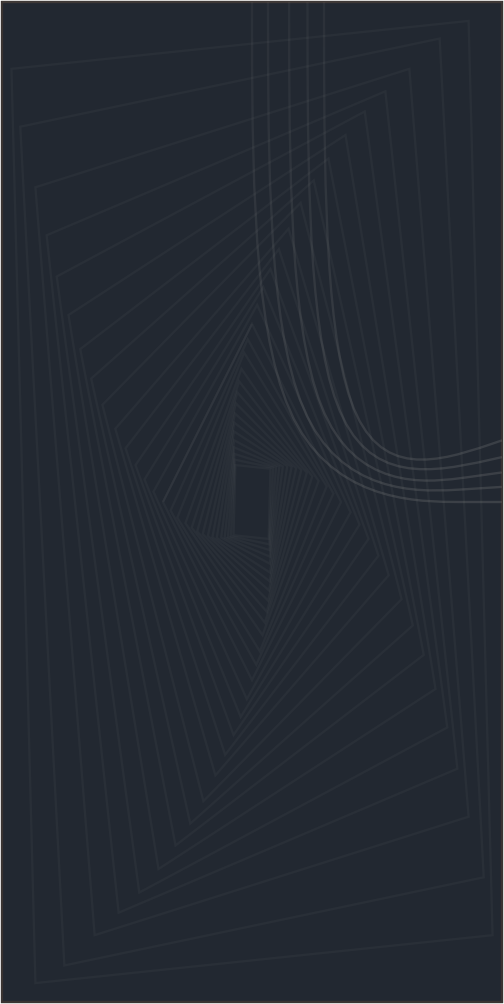
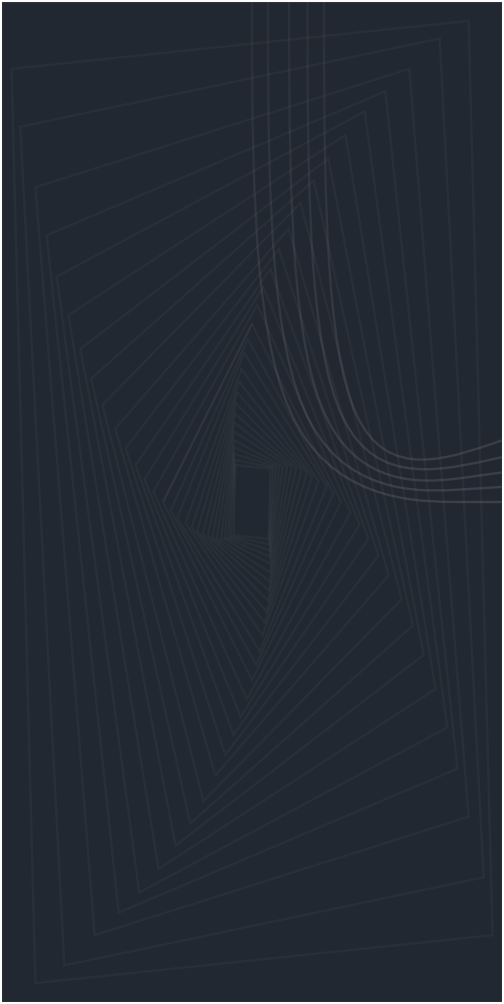
edit background picture to remove each border on all background side with bg size setting and center bg

Changed region(s): [[0.0, 0.0, 1.0, 1.0]]

diff --git a/daftar-kontak.html b/daftar-kontak.html
@@ -5,7 +5,7 @@
     <meta name="viewport" content="width=device-width, initial-scale=1.0">
     <title>Daftar Kontak</title>
     <meta content="Website ini menjual berbagai macam mobil dengan harga yang bersaing dan kualitas yang sangat baik" name="description">
-    <meta content="sgsmotor, jual beli mobil, mobil bekas, mobil baru, dealer mobil, mobil second" name="keywords">
+    <meta content="NurrayMotor, jual beli mobil, mobil bekas, mobil baru, dealer mobil, mobil second" name="keywords">
     <link rel="icon" href="./asset/images/SGSicon32x32.png" type="image/x-icon">
     <link rel="stylesheet" href="./asset/style/daftar-kontak.css">
 </head>
@@ -25,8 +25,8 @@
             <p>Di SGS Motor, kami berkomitmen untuk memberikan pelayanan prima dalam jual beli mobil dan motor bekas. Kami memiliki tim yang berpengalaman dan profesional dalam membantu Anda menemukan kendaraan yang sesuai dengan kebutuhan dan budget Anda. Kami menawarkan koleksi kendaraan bekas yang terawat dan terjamin kualitasnya, serta proses transaksi yang mudah dan aman. Tidak hanya itu, kami juga menawarkan berbagai pilihan kendaraan dengan harga yang kompetitif dan promo-promo menarik. Dengan demikian, Anda dapat membeli atau menjual kendaraan dengan percaya diri dan nyaman. Silakan hubungi kami untuk informasi lebih lanjut.</p>
         </article>
         <article class="article2">
-            <h2>Mengapa Harus SGSmotor?</h2>
-            <p>Berikut merupakan beberapa alasan mengapa anda harus memilih SGSmotor:</p>
+            <h2>Mengapa Harus NurrayMotor?</h2>
+            <p>Berikut merupakan beberapa alasan mengapa anda harus memilih NurrayMotor:</p>
             <ul>
                 <li>Koleksi Kendaraan yang Lengkap</li>
                 <li>Harga yang Kompetitif</li>

diff --git a/asset/style/index-style.css b/asset/style/index-style.css
@@ -27,13 +27,15 @@ body {
     background-image: url("./rawbackground.png");
     background-attachment: fixed;
     background-repeat: no-repeat;
-    background-size:cover;
+    background-size:110%;
+    background-position: center;
     animation-name: bg1-animation;
     animation-duration: 4s;
     animation-iteration-count: 1;
 }
 @keyframes bg1-animation {
     0% {background-image: url("./rawbackgroundmobile.png");}
+    30% {background-image: url("./rawbackgroundmobile.png");}
     100% {background-image: url("./rawbackground.png");}
 }
 .header-logo {
@@ -367,12 +369,15 @@ a.href-bottom {
         background-attachment: fixed;
         background-repeat: no-repeat;
         background-size:cover;
+        background-size:110%;
+        background-position: center;
         animation-name: bg2-animation;
         animation-duration: 4s;
         animation-iteration-count: 1;
     }
     @keyframes bg2-animation {
         0% {background-image: url("./rawbackground.png");}
+        30% {background-image: url("./rawbackground.png");}
         100% {background-image: url("./rawbackgroundmobile.png");}
     }
     .header-container {
